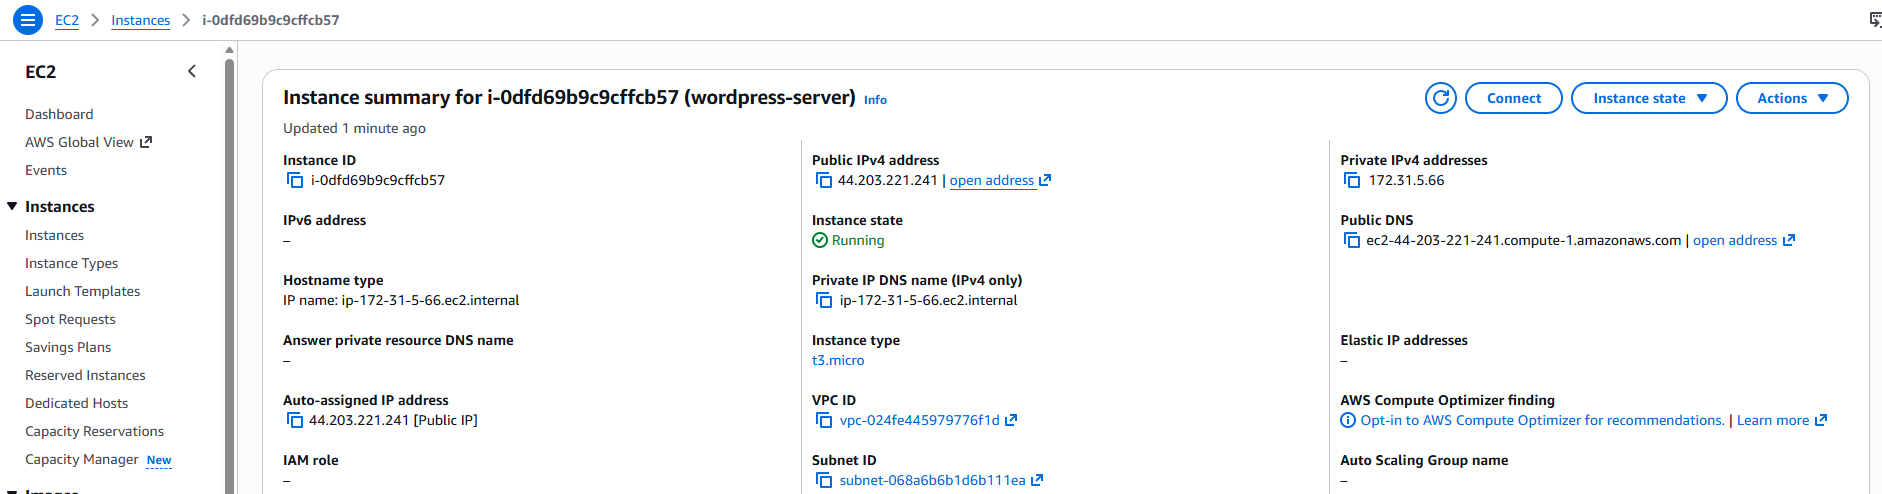
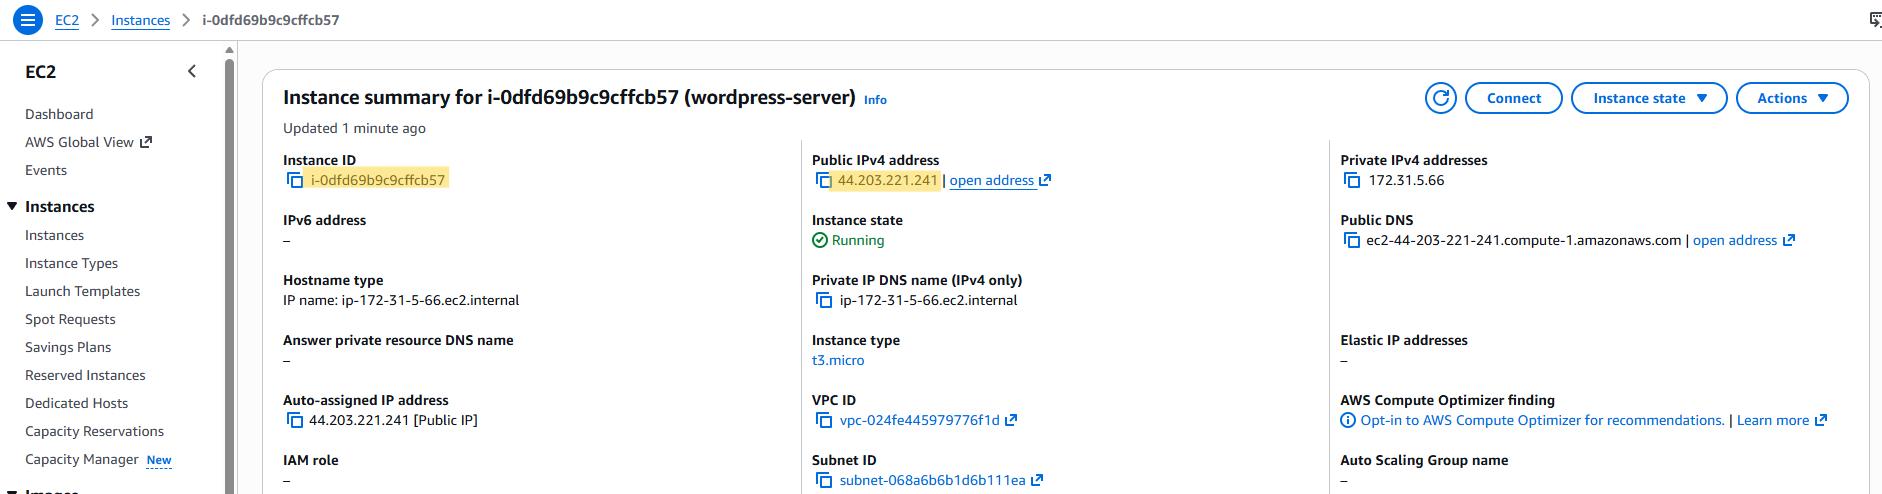
add files and pic updates

Changed region(s): [[0.4315, 0.334, 0.5239, 0.3947], [0.1541, 0.334, 0.2465, 0.3947]]

diff --git a/02-bash/labs/README.md b/02-bash/labs/README.md
@@ -34,3 +34,131 @@ Key takeaways from this lab.
 
 - [ ] Add your first lab
 
+Bash Battle Arena
+1. 	mkdir -p Arena/warrior.txt Arena/mage.txt Arena/archer.txt                                                                                     	ls Arena
+or
+	for file in warrior.txt mage.txt archer.txt; 
+	do
+    	mkdir -p "Arena/$file"
+	done
+	ls Arena
+
+
+2.	#!/bin/bash
+
+	for i in {1..10}
+	do
+        	echo $i
+	done
+
+3.	#!/bin/bash
+
+	for file in arena
+	do
+        if [ "$file" == hero.txt  ]
+        then
+                echo "Hero found!"
+        fi
+
+        echo "Hero missing!"
+	done
+
+4.	#!/bin/bash
+
+	for file in Arena/*.txt
+	do
+    		cp -r "$file" Backup
+	done
+
+5.	
+#!/bin/bash
+
+set -e
+
+for file in knight.txt warrior.txt sorcerer.txt
+do
+        mkdir -p "Battlefield/$file"
+done
+
+
+if [ -f "Battlefield/knight.txt" ];
+then
+        echo "Knight found!"
+fi
+
+mkdir Archive
+mv Battlefield/knight.txt Archive
+
+ls Battlefield
+ls Archive
+
+6.
+#!/bin/bash
+
+set -e
+
+file="$1"
+
+if [ "$#" -eq 0 ];
+then
+        echo "No file provided!"
+else
+        cat "$file" | wc -l
+fi
+
+7.
+#!/bin/bash
+
+mkdir L7
+
+for file in *txt
+do
+cp "$file" L7
+done
+
+ls -lh L7 | grep -v "^total" | sort -n -k5
+
+8.
+#!/bin/bash
+
+set -x
+
+#mkdir ket 
+#touch ket/as.log ket/ad.txt ket/je.log ket/re.txt
+#echo "dog" > ket/as.log
+#echo "dog" > ket/je.log
+
+word="$1"
+grep -wl "$word" ket/*.log
+
+9.
+
+10.
+#!/bin/bash
+set -xu
+
+mkdir Arena_Boss
+
+for i in {1..5}; do
+touch "Arena_Boss/file$i"
+done
+
+words=(victory defeat arena champion blade honor shadow fury)
+
+for file in Arena_Boss/*; do
+    lines=$(shuf -i 10-20 -n 1)
+    for ((i=1; i<=lines; i++)); do
+        word=${words[RANDOM % ${#words[@]}]}
+        echo "Line $i: $word" >> "$file"
+    done
+done
+
+ls -lha Arena_Boss | sort -n -k5
+
+
+mkdir Victory_Archive
+for file in Arena_Boss/*; do
+    if grep -q "victory" "$file"; then
+        mv "$file" Victory_Archive/
+    fi
+done